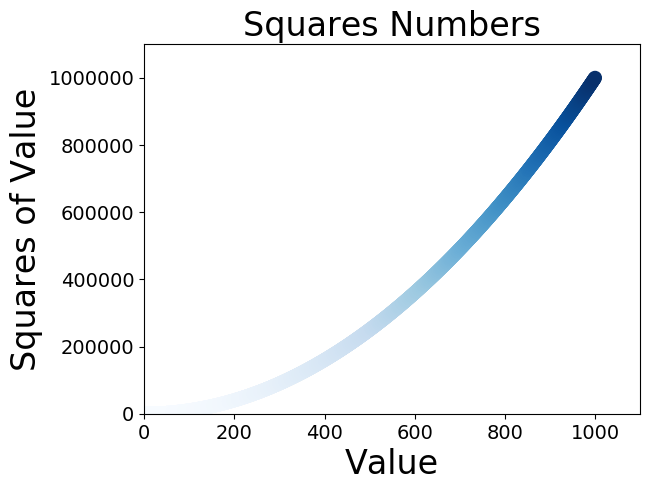
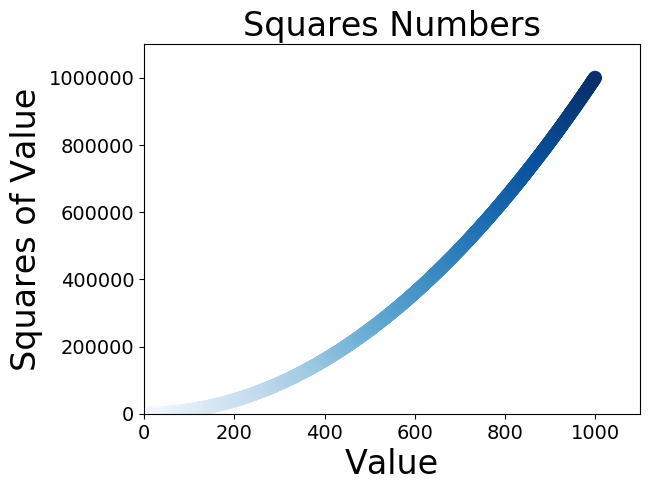
2017年08月06日22:52:48

Changed region(s): [[0.3063, 0.3055, 0.8576, 0.8554]]

diff --git a/pygal_demo/die_visual.py b/pygal_demo/die_visual.py
@@ -1,0 +1,61 @@
+#!/usr/bin/env python3
+# -*- coding: utf-8 -*-
+# @Time    : 17-8-6 下午9:03
+# @Author  : Zhangbin
+# @Site    : home
+# @File    : die_visual.py
+# @Software: PyCharm Community Edition
+# 投掷骰子
+import die
+import pygal
+import webbrowser
+def run_die():
+    """运行投掷骰子"""
+    # 实例话Die
+    die1 = die.Die()
+    die2 = die.Die(10)
+    # 生成两个骰子的组合结果
+    tow_results = to_results(die1, die2)
+    # 生成两个骰子的频率
+    tow_frequencies = to_frequency(tow_results)
+    # 生成结果的交集组合，其中没有重复的，并排序
+    tow_results_sides = sorted(set(tow_results))
+    # 显示图表
+    show_die(tow_results_sides, tow_frequencies)
+    webbrowser.open_new_tab("http://localhost:63342/Demo/"
+                            "pygal_demo/die_visual.svg")
+
+
+
+def to_results(die1, die2):
+    # 投掷两次骰子，将结果储存在一个列表中
+    results = [die1.roll() + die2.roll() for a in range(1000)]
+    return results
+
+def to_frequency(results):
+    """生成频率"""
+    # 分析结果
+    # 存储结果
+    frequencies = []
+    # 计算two面数的组合
+    results_set = sorted(set(results))
+    # 建立结果值的循环
+    for value in results_set:
+        # 将每个值的频率存储
+        frequency = results.count(value)
+        # 存入frequencies
+        frequencies.append(frequency)
+    return frequencies
+
+# 对结果进行可视化
+def show_die(results_sides, frequencies):
+    """生成图表展示"""
+    hist = pygal.Bar()
+    hist.title = "Result of rolling two die 1000 times"
+    hist.x_title = "Result"
+    hist.y_title = "Frequency of Result"
+    hist.x_labels = results_sides
+    hist.add("die", frequencies)
+    hist.render_to_file("die_visual.svg")
+
+run_die()

diff --git a/matplotlib_demo/random_walk/rw_visual.py b/matplotlib_demo/random_walk/rw_visual.py
@@ -8,12 +8,35 @@
 # 创建一个RandomWalk类的实例
 import matplotlib.pyplot as plt
 import random_walk
-# 创建一个RandomWalk的实例并绘制出来
-rw = random_walk.RandomWalk()
-rw.fill_walk()
-# 绘制线的方式
-# plt.plot(rw.x_values, rw.y_values)
-# plt.show()
-# 绘制点的方式
-plt.scatter(rw.x_values, rw.y_values, s=15)
-plt.show()
+#只要程序处于活动状态，就模拟随机漫步
+while True:
+    # 创建一个RandomWalk的实例并绘制出来
+    rw = random_walk.RandomWalk()
+    rw.fill_walk()
+    # 设置窗口的大小
+    plt.figure(figsize=(10, 2))
+    # 设置标题
+    plt.title("zhangibn")
+    # 绘制线的方式
+    # plt.plot(rw.x_values, rw.y_values)
+    # plt.show()
+    # 绘制点的方式，将点的先后区分开来，通过每个点是1-5000个点的先后顺序
+    # cmap是颜色渐变样式，plt.cm.Blues,渐变色数组的len与rw.y_values一致
+    num_points_color = list(range(len(rw.y_values)))
+    print(len(num_points_color))
+    # 绘制随机点
+    plt.scatter(rw.x_values, rw.y_values, s=1, edgecolor='none',
+                c=num_points_color, cmap=plt.cm.Blues)
+    # 绘制起点
+    plt.scatter(0, 0, s=600, edgecolor='none', c='green')
+    # 绘制终点
+    plt.scatter(rw.x_values[-1], rw.y_values[-1], s=200, c='red',
+                edgecolor='none')
+    # 隐藏坐标轴
+    plt.axes().get_xaxis().set_visible(False)
+    plt.axes().get_yaxis().set_visible(False)
+    plt.show()
+    # 检查是否继续循环
+    keep_running = input("Make another walk?(y/n):")
+    if keep_running == 'n':
+        break

diff --git a/pygal_demo/die.py b/pygal_demo/die.py
@@ -1,0 +1,18 @@
+#!/usr/bin/env python3
+# -*- coding: utf-8 -*-
+# @Time    : 17-8-6 下午8:58
+# @Author  : Zhangbin
+# @Site    : home
+# @File    : die.py
+# @Software: PyCharm Community Edition
+# 骰子类
+import random
+class Die():
+    """一个骰子的类"""
+    def __init__(self, num_sides=6):
+        """骰子默认为6个面，和基本的参数"""
+        self.num_sides = num_sides
+
+    def roll(self):
+        """投掷骰子，等到一个1到骰子面数的数值"""
+        return random.randint(1, self.num_sides)

diff --git a/matplotlib_demo/scatter_squares.py b/matplotlib_demo/scatter_squares.py
@@ -13,7 +13,7 @@ y_values = [x**2 for x in x_values]
 # x_values = [100]
 # y_values = [100 ** 3]
 # 绘制散点,其中的S是散点的大小,edgecolor表示边框线，c表示颜色，cmap表示渐变颜色
-plt.scatter(x_values, y_values, s=100, edgecolor='none', c=y_values,
+plt.scatter(x_values, y_values, s=100, edgecolor='none', c=x_values,
             cmap=plt.cm.Blues)
 # 设置图标标题并给坐标轴加上标签
 # 设置图标标题
